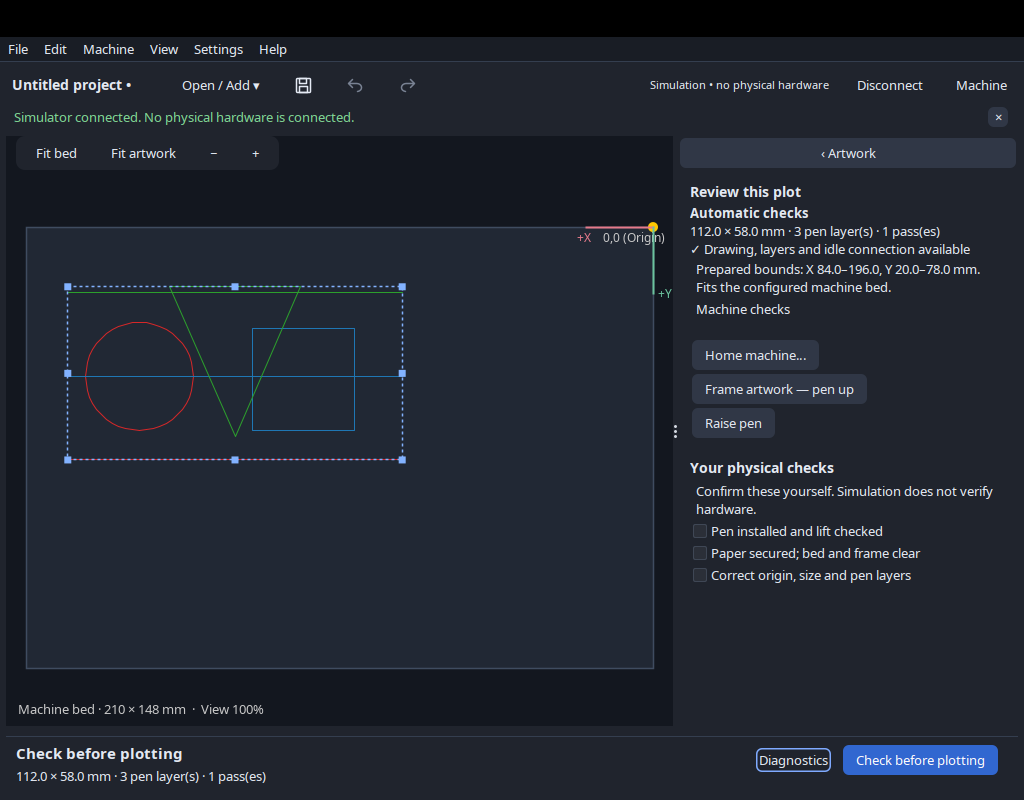
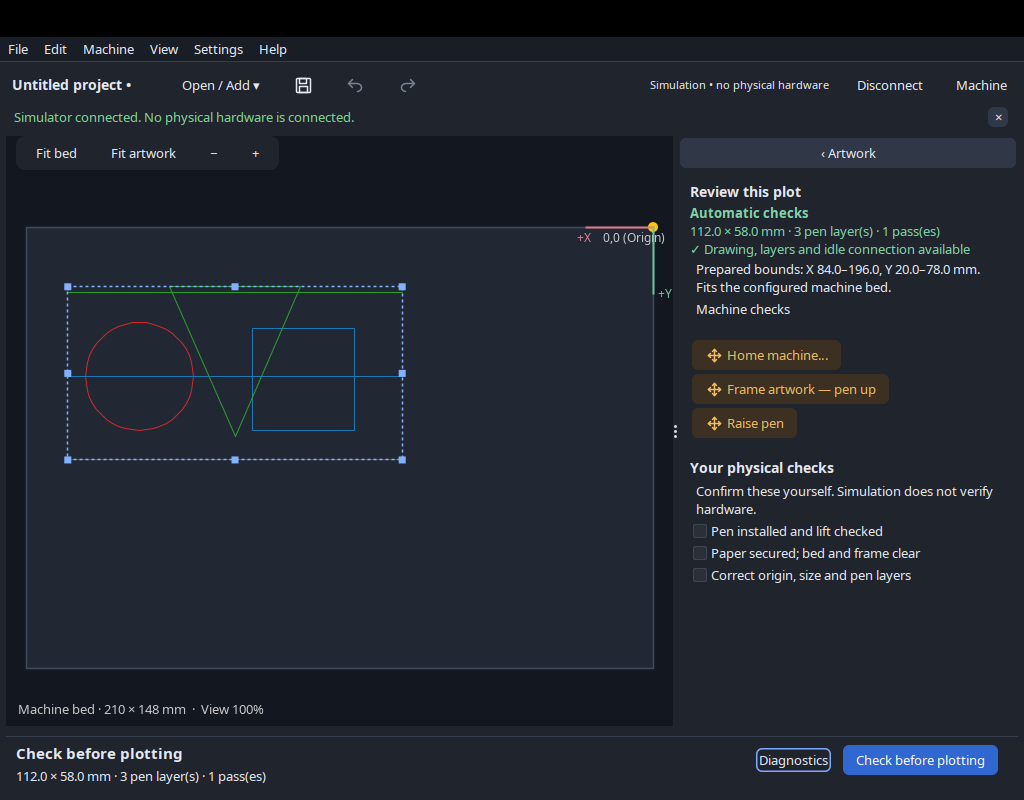
Apply semantic action colours and prepare RC7 installers (#56)

Changed region(s): [[0.6562, 0.4062, 0.875, 0.5625], [0.6562, 0.25, 0.9375, 0.3438]]

diff --git a/app/src/main/java/org/trostheide/gantry/app/gui/PlotterPanel.java b/app/src/main/java/org/trostheide/gantry/app/gui/PlotterPanel.java
@@ -62,7 +62,6 @@ import java.time.format.DateTimeFormatter;
  */
 public class PlotterPanel extends JPanel {
 
-    private static final Color ACTION_GREEN = new Color(46, 125, 50);
     private static final Color ACTION_RED = new Color(198, 40, 40);
     private record OptimizationResult(ProcessorOutput output, OptimizeStage.Stats before,
                                       OptimizeStage.Stats after) { }
@@ -133,6 +132,7 @@ public class PlotterPanel extends JPanel {
     /** Controls that should be disabled while a plot is running (jog, pen, speed, edit actions). */
     private final List<JComponent> plotDisabledControls = new ArrayList<>();
     private final List<JComponent> connectionRequiredControls = new ArrayList<>();
+    private final List<JButton> manualMotionControls = new ArrayList<>();
 
     private JSplitPane controlSplit;
     private WorkspaceShell workspace;
@@ -261,7 +261,9 @@ public class PlotterPanel extends JPanel {
             menu.add(menuItem("Watercolor station checks…",event->onTestStationsWizard(),false));
             menu.show(machineMore,0,machineMore.getHeight());});
         JPanel machineActions=new JPanel(new FlowLayout(FlowLayout.LEFT,6,0));
-        JButton frameButton=WorkspaceStyle.button("Frame…",this::frameJob);frameButton.getAccessibleContext().setAccessibleName("Frame artwork — pen up");frameButton.setToolTipText("Move around the prepared drawing with the pen raised");machineActions.add(frameButton);machineActions.add(jogPanel.homeButton());machineActions.add(machineMore);
+        JButton frameButton=WorkspaceStyle.button("Frame…",this::frameJob);frameButton.getAccessibleContext().setAccessibleName("Frame artwork — pen up");frameButton.setToolTipText("Move around the prepared drawing with the pen raised");WorkspaceStyle.motion(frameButton);machineActions.add(frameButton);machineActions.add(jogPanel.homeButton());machineActions.add(machineMore);
+        manualMotionControls.add(frameButton);manualMotionControls.add(jogPanel.homeButton());
+        manualMotionControls.addAll(workspaceChecks.motionControls());
         JPanel machine = WorkspaceStyle.stack(jogPanel,machineActions);machine.setBorder(BorderFactory.createEmptyBorder(4,10,4,10));
         machine.setToolTipText("Manual controls can move the connected plotter. Arrow keys work only on focused jog buttons.");
         // Only navigation remains available during a job; editing/motion actions retain existing gates.
@@ -390,6 +392,9 @@ public class PlotterPanel extends JPanel {
         if (workspace == null) return;
         boolean connected=plotJobController.isConnected();
         boolean idle=config.mock || controllerState==GcodeBackend.MachineState.IDLE;
+        for(JButton control:manualMotionControls) {
+            control.setEnabled(connected && !plotting && !plotJobController.isMachineBusy() && manualActions==0);
+        }
         updateBoundsReview();
         String summary=workspaceSummary();
         workspaceChecks.update(pendingJob!=null||documentSession.currentOutput()!=null,pendingJob!=null||!selectedLayerIndices().isEmpty(),connected,idle,plotJobController.isMachineBusy()||manualActions>0 || !historicalCompatible(),summary);
@@ -409,6 +414,8 @@ public class PlotterPanel extends JPanel {
         workspace.jobSummary.setToolTipText(summary+(boundsWarning.isBlank()?"":" · "+boundsWarning));
         if(artworkInspector!=null)artworkInspector.updateSummary(summary);
         safetyStatusLabel.setText(config.mock ? "Simulation • no physical hardware" : connected ? "Controller: "+controllerState : "Not connected • physical state unknown");
+        WorkspaceStyle.status(safetyStatusLabel, !config.mock && connected && controllerState==GcodeBackend.MachineState.IDLE
+                ? "Gantry.success" : controllerState==GcodeBackend.MachineState.ALARM ? "Gantry.error" : "Label.foreground");
         for(ActionListener listener:guidanceActionBtn.getActionListeners())guidanceActionBtn.removeActionListener(listener);
         guidanceActionBtn.setText(view.button());guidanceActionBtn.setEnabled(view.enabled()&&historicalCompatible()&&!replaying&&manualActions==0&&(plotting||!plotJobController.isMachineBusy()));
         WorkspacePresentation.Action nextAction=view.action();

diff --git a/app/src/main/java/org/trostheide/gantry/app/gui/WorkspaceStyle.java b/app/src/main/java/org/trostheide/gantry/app/gui/WorkspaceStyle.java
@@ -43,6 +43,13 @@ public final class WorkspaceStyle {
         palette.put("Separator.foreground", dark ? "#343e4f" : "#dce3ee");
         palette.put("ProgressBar.arc", "999");
         palette.put("ProgressBar.foreground", "#5283e8");
+        palette.put("Gantry.motion.background", dark ? "#3b3021" : "#fff0d4");
+        palette.put("Gantry.motion.foreground", dark ? "#f4bd62" : "#784500");
+        palette.put("Gantry.motion.hover", dark ? "#504027" : "#ffe1a5");
+        palette.put("Gantry.motion.pressed", dark ? "#64502f" : "#f4ce87");
+        palette.put("Gantry.success", dark ? "#83d5aa" : "#21683f");
+        palette.put("Gantry.warning", dark ? "#f4bd62" : "#784500");
+        palette.put("Gantry.error", dark ? "#ff9696" : "#a82b35");
         look.setExtraDefaults(palette);
         FlatLaf.setup(look);
         boolean compact="Compact".equals(config.uiDensity);
@@ -94,8 +101,46 @@ public final class WorkspaceStyle {
         button.setCursor(Cursor.getPredefinedCursor(Cursor.HAND_CURSOR));
     }
     static void primary(JButton button) {
+        action(button, ActionRole.PREPARE, true);
+    }
+    enum ActionRole { NEUTRAL, PREPARE, MOTION, PAUSE, STOP }
+    /** Explicit consequences, never inferred from translated labels or wired to machine state. */
+    static void action(AbstractButton button, ActionRole role, boolean prominent) {
+        button.putClientProperty("Gantry.actionRole", role);
         button.putClientProperty("JButton.buttonType", null);
-        button.putClientProperty("FlatLaf.style", "background: #3167d0; foreground: #ffffff; focusedBackground: #2a58b4; hoverBackground: #2856b1; pressedBackground: #204591");
+        String style = switch(role) {
+            case NEUTRAL -> "";
+            case PREPARE -> "background: #3167d0; foreground: #ffffff; focusedBackground: #2a58b4; hoverBackground: #2856b1; pressedBackground: #204591";
+            case MOTION, PAUSE -> prominent
+                    ? "background: #edb459; foreground: #292013; focusedBackground: #f3c477; hoverBackground: #f3c477; pressedBackground: #d99c3c"
+                    : "background: $Gantry.motion.background; foreground: $Gantry.motion.foreground; focusedBackground: $Gantry.motion.hover; hoverBackground: $Gantry.motion.hover; pressedBackground: $Gantry.motion.pressed";
+            case STOP -> "background: #ad2935; foreground: #ffffff; focusedBackground: #c33340; hoverBackground: #c33340; pressedBackground: #90212b";
+        };
+        if (!style.isEmpty()) style += "; disabledBackground: $Button.disabledBackground; disabledText: $Button.disabledText";
+        button.putClientProperty("FlatLaf.style", style);
+        if (role == ActionRole.MOTION && !Boolean.TRUE.equals(button.getClientProperty("jogDirection"))) {
+            button.setIcon(new WorkspaceIcon(WorkspaceIcon.Kind.MOTION));
+            button.getAccessibleContext().setAccessibleDescription("Can send machine movement commands. " + button.getText());
+        } else if (button.getIcon() instanceof WorkspaceIcon icon && icon.isMotion()) {
+            button.setIcon(null);
+            button.getAccessibleContext().setAccessibleDescription(null);
+        }
+    }
+    static JButton motion(JButton button) {
+        action(button, ActionRole.MOTION, false);
+        if(button.getToolTipText()==null)button.setToolTipText("Can move the machine: " + button.getText() + ". Requires a connected, available plotter.");
+        return button;
+    }
+    static ActionRole roleFor(WorkspacePresentation.Action action) {
+        return switch(action) {
+            case START, CONTINUE, RESUME -> ActionRole.MOTION;
+            case PAUSE -> ActionRole.PAUSE;
+            case CHECK -> ActionRole.PREPARE;
+            default -> ActionRole.NEUTRAL;
+        };
+    }
+    static void status(JComponent component, String key) {
+        component.putClientProperty("FlatLaf.style", "foreground: $" + key);
     }
     static JPanel surface(LayoutManager layout) {
         JPanel panel=new JPanel(layout){

diff --git a/app/src/main/java/org/trostheide/gantry/app/gui/WorkspaceShell.java b/app/src/main/java/org/trostheide/gantry/app/gui/WorkspaceShell.java
@@ -15,6 +15,7 @@ final class WorkspaceShell extends JPanel {
     final JLabel jobSummary = new JLabel("No artwork");
     final JTextArea jobDetail = WorkspaceStyle.note("No active job");
     final JButton stop;
+    private final JButton primary;
     final JSplitPane split;
     final JToggleButton machineToggle = new JToggleButton("Machine");
     final JToggleButton pin = new JToggleButton("Pin");
@@ -38,6 +39,7 @@ final class WorkspaceShell extends JPanel {
                    JComponent console,JComponent raw,JButton primary,Runnable stopAction,Runnable copy,
                    Supplier<GantryConfig> config,Runnable save,Runnable stopJog) {
         super(new BorderLayout(6,4));
+        this.primary=primary;
         this.stopJog=stopJog; this.config=config; this.save=save;
         cards.add(prepare,"Prepare"); cards.add(check,"Check"); cards.add(plot,"Plot");
         // CardLayout otherwise uses the tallest hidden card when computing the scroll height.
@@ -73,7 +75,7 @@ final class WorkspaceShell extends JPanel {
         jobTitle.setFont(jobTitle.getFont().deriveFont(Font.BOLD,15f));
         JPanel copyPanel=new JPanel(new BorderLayout(0,3));copyPanel.setMinimumSize(new Dimension(0,0));copyPanel.add(jobTitle,BorderLayout.NORTH);JPanel middle=new JPanel(new BorderLayout(0,3));middle.add(jobSummary,BorderLayout.NORTH);middle.add(progressSlot,BorderLayout.CENTER);copyPanel.add(middle,BorderLayout.CENTER);jobTitle.setToolTipText(jobHint.getText());job.add(copyPanel,BorderLayout.CENTER);
         JPanel controls=new JPanel(new FlowLayout(FlowLayout.RIGHT,8,0));WorkspaceStyle.primary(primary);controls.add(primary);
-        stop=WorkspaceStyle.button("Stop",stopAction);stop.putClientProperty("JButton.buttonType","roundRect");stop.setBackground(new Color(175,35,35));stop.setForeground(Color.WHITE);stop.getAccessibleContext().setAccessibleDescription("Stop the active job and attempt motion halt and pen lift");controls.add(stop);job.add(controls,BorderLayout.EAST);
+        stop=WorkspaceStyle.button("Stop",stopAction);WorkspaceStyle.action(stop,WorkspaceStyle.ActionRole.STOP,true);stop.getAccessibleContext().setAccessibleDescription("Stop the active job and attempt motion halt and pen lift");controls.add(stop);job.add(controls,BorderLayout.EAST);
         JToggleButton diagnostics=new JToggleButton("Diagnostics");WorkspaceStyle.quiet(diagnostics);diagnostics.setSelected(config.get().diagnosticsOpen);
         JPanel drawerTools=new JPanel(new FlowLayout(FlowLayout.LEFT,6,0));controls.add(diagnostics,0);
         JPanel drawer=new JPanel(new BorderLayout());JPanel drawerHeader=new JPanel(new BorderLayout());drawerHeader.add(raw,BorderLayout.CENTER);drawerHeader.add(WorkspaceStyle.button("Copy diagnostics",copy),BorderLayout.EAST);
@@ -102,6 +104,13 @@ final class WorkspaceShell extends JPanel {
         revalidate();repaint();
     }
     void render(WorkspacePresentation.View view,boolean guidance){
+        WorkspaceStyle.action(primary,WorkspaceStyle.roleFor(view.action()),true);
+        WorkspaceStyle.status(jobTitle,switch(view.phase()) {
+            case COMPLETE, READY -> "Gantry.success";
+            case FAILED -> "Gantry.error";
+            case WAITING, PAUSED, STOPPED -> "Gantry.warning";
+            default -> "Label.foreground";
+        });
         jobTitle.setText(view.title());jobTitle.setToolTipText(view.hint());jobHint.setText(view.hint());jobHint.setVisible(guidance);stop.setVisible(view.stop());stop.setEnabled(view.stop());
         if(view.stop()&&view.phase()!=WorkspacePresentation.Phase.MANUAL&&!activeJob&&!config.get().machinePanelPinned)setMachineOpen(false);
         activeJob=view.stop();back.setEnabled(!activeJob);progressSlot.setVisible(activeJob||view.phase()==WorkspacePresentation.Phase.COMPLETE||view.phase()==WorkspacePresentation.Phase.STOPPED||view.phase()==WorkspacePresentation.Phase.FAILED);

diff --git a/app/src/main/java/org/trostheide/gantry/app/gui/JogPanel.java b/app/src/main/java/org/trostheide/gantry/app/gui/JogPanel.java
@@ -40,6 +40,7 @@ final class JogPanel extends JPanel {
         JPanel manual=new JPanel(new BorderLayout(8,0));manual.add(pad,BorderLayout.WEST);
         JButton penUp=control(WorkspaceStyle.button("Pen up",()->backend.accept(PlotterBackend::penup)),true);
         JButton penDown=control(WorkspaceStyle.button("Pen down",()->backend.accept(PlotterBackend::pendown)),true);
+        WorkspaceStyle.motion(penUp);WorkspaceStyle.motion(penDown);
         penUp.setMargin(new Insets(3,8,3,8));penDown.setMargin(new Insets(3,8,3,8));
         step.getAccessibleContext().setAccessibleName("Jog distance in millimetres");step.setPreferredSize(new Dimension(64,step.getPreferredSize().height));plotSafeControls.add(step);
         JComboBox<String> presets=new JComboBox<>(new String[]{"Step preset…","0.1 mm","1 mm","10 mm"});
@@ -50,6 +51,7 @@ final class JogPanel extends JPanel {
         home=control(WorkspaceStyle.button("Home machine…",this::home),true);
         for(JButton button:List.of(minus,plus,reset))button.setMargin(new Insets(3,6,3,6));
         reset.setText("↺");reset.getAccessibleContext().setAccessibleName("Reset feed override");reset.setToolTipText("Reset feed override to 100%");
+        WorkspaceStyle.motion(home);
         home.setText("Home…");home.setToolTipText("Home moves toward the configured limit switches");
         JPanel footer=row(new JLabel("Feed override"),minus,speed,plus,reset,home);add(footer,BorderLayout.SOUTH);
     }
@@ -65,7 +67,7 @@ final class JogPanel extends JPanel {
         if(JOptionPane.showConfirmDialog(parent,"Home moves the plotter toward its configured limit switches. Clear the bed before continuing.","Home machine",JOptionPane.OK_CANCEL_OPTION,JOptionPane.WARNING_MESSAGE)!=JOptionPane.OK_OPTION)return;
         backend.accept(b->{b.home();reportPosition(0,0);});}
     private void adjustSpeed(String value){new Thread(()->{try{jobs.withBackend(b->b.adjustSpeed(value));}catch(RuntimeException e){log.accept("Feed override failed: "+e.getMessage());}},"feed-override").start();}
-    private JButton jogButton(String label,int dx,int dy){JButton b=control(new JButton(label),true);b.putClientProperty("jogDirection",true);b.getAccessibleContext().setAccessibleName("Jog "+(dx<0?"left":dx>0?"right":dy>0?"up":"down"));b.setMargin(new Insets(0,0,0,0));b.setPreferredSize(new Dimension(34,30));
+    private JButton jogButton(String label,int dx,int dy){JButton b=control(new JButton(label),true);b.putClientProperty("jogDirection",true);WorkspaceStyle.motion(b);b.getAccessibleContext().setAccessibleName("Jog "+(dx<0?"left":dx>0?"right":dy>0?"up":"down"));b.setMargin(new Insets(0,0,0,0));b.setPreferredSize(new Dimension(34,30));
         boolean[] continuous={false};Timer timer=new Timer(300,e->{continuous[0]=true;startContinuous(dx,dy);});timer.setRepeats(false);holdTimers.add(timer);
         b.addActionListener(e->{timer.stop();if(!continuous[0])jog(dx,dy);continuous[0]=false;});
         b.addMouseListener(new MouseAdapter(){public void mousePressed(MouseEvent e){if(b.isEnabled()&&SwingUtilities.isLeftMouseButton(e)){continuous[0]=false;timer.restart();}}public void mouseReleased(MouseEvent e){timer.stop();stopContinuous();}public void mouseExited(MouseEvent e){timer.stop();stopContinuous();}});

diff --git a/app/src/test/java/org/trostheide/gantry/app/gui/WorkspaceActionStyleTest.java b/app/src/test/java/org/trostheide/gantry/app/gui/WorkspaceActionStyleTest.java
@@ -1,0 +1,37 @@
+package org.trostheide.gantry.app.gui;
+
+import org.junit.jupiter.api.Test;
+import org.trostheide.gantry.app.plot.GantryConfig;
+import javax.swing.*;
+import static org.junit.jupiter.api.Assertions.*;
+
+class WorkspaceActionStyleTest {
+    @Test void jobActionTracksConsequencesAcrossThemesAndDoesNotEnableControls() throws Exception {
+        SwingUtilities.invokeAndWait(() -> {
+            for (String theme : new String[]{"Dark", "Light"}) {
+                GantryConfig config = new GantryConfig(); config.uiTheme = theme;
+                WorkspaceStyle.install(config);
+                JButton primary = new JButton("Start plotting"); primary.setEnabled(false);
+                WorkspaceShell shell = new WorkspaceShell(new JPanel(), new JPanel(), new JPanel(),
+                        new JPanel(), new JPanel(), new JPanel(), new JPanel(), primary,
+                        () -> {}, () -> {}, () -> config, () -> {}, () -> {});
+                for (WorkspacePresentation.Action action : new WorkspacePresentation.Action[]{
+                        WorkspacePresentation.Action.START, WorkspacePresentation.Action.CONTINUE,
+                        WorkspacePresentation.Action.PAUSE, WorkspacePresentation.Action.RESUME,
+                        WorkspacePresentation.Action.CHECK, WorkspacePresentation.Action.ADD}) {
+                    shell.render(new WorkspacePresentation.View(WorkspacePresentation.Phase.READY,
+                            "Ready", "", "Action", action, true, false), true);
+                    boolean movement = action == WorkspacePresentation.Action.START
+                            || action == WorkspacePresentation.Action.CONTINUE || action == WorkspacePresentation.Action.RESUME;
+                    assertEquals(movement, primary.getIcon() instanceof WorkspaceIcon icon && icon.isMotion());
+                    assertFalse(primary.isEnabled(), "Styling must not override safety gates");
+                    SwingUtilities.updateComponentTreeUI(shell);
+                    assertFalse(primary.isEnabled());
+                    assertEquals(WorkspaceStyle.roleFor(action), primary.getClientProperty("Gantry.actionRole"));
+                }
+                assertEquals(WorkspaceStyle.ActionRole.STOP, shell.stop.getClientProperty("Gantry.actionRole"));
+                assertNull(primary.getAccessibleContext().getAccessibleDescription(), "No stale movement warning on Add");
+            }
+        });
+    }
+}

diff --git a/app/src/main/java/org/trostheide/gantry/app/gui/WorkspaceChecks.java b/app/src/main/java/org/trostheide/gantry/app/gui/WorkspaceChecks.java
@@ -12,13 +12,16 @@ final class WorkspaceChecks extends JPanel {
             new JCheckBox("Paper secured; bed and frame clear"), new JCheckBox("Correct origin, size and pen layers"));
     private final Runnable changed;
     private boolean automaticPass;
+    private final List<JButton> motionControls = new java.util.ArrayList<>();
+    List<JButton> motionControls(){return List.copyOf(motionControls);}
+    private void addMotion(JButton button){motionControls.add(button);add(WorkspaceStyle.motion(button));}
     WorkspaceChecks(Runnable home,Runnable frame,Runnable penUp,Runnable changed) {
         super();setBorder(BorderFactory.createEmptyBorder(10,12,10,12));this.changed=changed;setLayout(new BoxLayout(this,BoxLayout.Y_AXIS));
         add(WorkspaceStyle.heading("Review this plot"));add(automatic);add(bounds);
         add(WorkspaceStyle.note("Machine checks"));
-        add(WorkspaceStyle.button("Home machine…",home));
-        add(WorkspaceStyle.button("Frame artwork — pen up",frame));
-        add(WorkspaceStyle.button("Raise pen",penUp));
+        addMotion(WorkspaceStyle.button("Home machine…",home));
+        addMotion(WorkspaceStyle.button("Frame artwork — pen up",frame));
+        addMotion(WorkspaceStyle.button("Raise pen",penUp));
         add(Box.createVerticalStrut(16));add(WorkspaceStyle.heading("Your physical checks"));
         add(WorkspaceStyle.note("Confirm these yourself. Simulation does not verify hardware."));
         for(JCheckBox c:checks){c.setAlignmentX(LEFT_ALIGNMENT);c.addActionListener(e->changed.run());add(c);}
@@ -27,6 +30,7 @@ final class WorkspaceChecks extends JPanel {
         automaticPass=hasArtwork&&selection&&connected&&idle&&!busy;
         automatic.setText("<html><b>Automatic checks</b><br>"+WorkspaceStyle.escape(summary)+"<br>"+
                 (automaticPass?"✓ Drawing, layers and idle connection available":"Review drawing, selected layers and idle connection")+"</html>");
+        WorkspaceStyle.status(automatic,automaticPass?"Gantry.success":"Label.foreground");
         for(JCheckBox c:checks)c.setEnabled(automaticPass);
     }
     void setBoundsMessage(String text){bounds.setText(text);bounds.setVisible(!text.isBlank());}

diff --git a/app/src/main/java/org/trostheide/gantry/app/gui/CalibrationWorkflow.java b/app/src/main/java/org/trostheide/gantry/app/gui/CalibrationWorkflow.java
@@ -98,6 +98,7 @@ final class CalibrationWorkflow {
             for (int[] direction : new int[][]{{-1,0},{1,0},{0,-1},{0,1}}) {
                 double dx=direction[0],dy=direction[1];
                 JButton move=new JButton((dx==0?"Y ":"X ")+(dx+dy>0?"+":"−")+"1 mm");
+            WorkspaceStyle.motion(move);
                 move.addActionListener(e->runOnBackend(b->{b.penup();b.move(dx,dy);})); positioning.add(move);
             }
             panel.add(positioning);
@@ -117,6 +118,7 @@ final class CalibrationWorkflow {
                 java.util.function.Consumer<AxisDirectionSolver.Dir> onObserved) {
             JPanel row = new JPanel(new FlowLayout(FlowLayout.LEFT));
             JButton jogBtn = new JButton(jogLabel);
+            WorkspaceStyle.motion(jogBtn);
             jogBtn.addActionListener(e -> runOnBackend(b -> b.move(dxMm, dyMm)));
             row.add(jogBtn);
             row.add(new JLabel("moved:"));
@@ -195,6 +197,7 @@ final class CalibrationWorkflow {
             panel.add(left(currentLabel));
 
             JButton moveBtn = new JButton("Move " + axis + " by commanded distance");
+            WorkspaceStyle.motion(moveBtn);
             moveBtn.addActionListener(e -> {
                 double d = ((Number) commandedSpinner.getValue()).doubleValue();
                 runOnBackend(b -> {
@@ -395,6 +398,7 @@ final class CalibrationWorkflow {
             panel.add(left(cards));
 
             JButton testBtn = new JButton("Test pen (up → down → up)");
+            WorkspaceStyle.motion(testBtn);
             testBtn.addActionListener(e -> runOnBackend(b -> {
                 log("Pen test: lifting, lowering, lifting…");
                 b.penup();

diff --git a/scripts/gui/WorkspaceLayouts.java b/scripts/gui/WorkspaceLayouts.java
@@ -24,6 +24,7 @@ public class WorkspaceLayouts extends GuiAcceptance {
    var beforeNavigation=edt(()->project().output());
    edt(()->{Object vis=field(panel,"visPanel");Object session=field(panel,"documentSession");java.util.List<?> artworks=(java.util.List<?>)session.getClass().getMethod("artworks").invoke(session);if(!artworks.isEmpty()){Object artwork=artworks.get(0);String id=(String)artwork.getClass().getMethod("id").invoke(artwork);Method select=vis.getClass().getDeclaredMethod("selectArtwork",String.class);select.setAccessible(true);select.invoke(vis,id);}return null;});capture(out,"selected-artwork");
    edt(()->{Object shell=field(panel,"workspace");((JToggleButton)field(shell,"machineToggle")).doClick();return null;});capture(out,"machine");assertLayerRows();
+   edt(()->{check(!findButton(panel,"Home…").isEnabled(),"Home disabled when disconnected");check(!findButton(panel,"Frame…").isEnabled(),"Frame disabled when disconnected");return null;});
    edt(()->{Object vis=field(panel,"visPanel");Method select=vis.getClass().getDeclaredMethod("selectArtwork",String.class);select.setAccessible(true);select.invoke(vis,new Object[]{null});return null;});capture(out,"machine-whole-drawing");assertLayerRows();
    check(edt(()->project().output().equals(beforeNavigation)),"selection and machine navigation preserve prepared output");
    edt(()->{Object shell=field(panel,"workspace");((JToggleButton)field(shell,"machineToggle")).doClick();frame.setSize(1440,1000);return null;});capture(out,"large-workspace");edt(()->{frame.setSize(1024,800);return null;});

diff --git a/app/src/main/java/org/trostheide/gantry/app/gui/WorkspaceIcon.java b/app/src/main/java/org/trostheide/gantry/app/gui/WorkspaceIcon.java
@@ -7,7 +7,8 @@ import java.awt.geom.Path2D;
 
 /** Small vector toolbar icons, painted at the active desktop scale. */
 final class WorkspaceIcon implements Icon {
-    enum Kind { SAVE, UNDO, REDO }
+    enum Kind { SAVE, UNDO, REDO, MOTION }
+    boolean isMotion(){return kind==Kind.MOTION;}
     private final Kind kind;
     WorkspaceIcon(Kind kind){this.kind=kind;}
     public int getIconWidth(){return UIScale.scale(18);}
@@ -17,6 +18,7 @@ final class WorkspaceIcon implements Icon {
         try{g.translate(x,y);g.scale(getIconWidth()/18.0,getIconHeight()/18.0);g.setRenderingHint(RenderingHints.KEY_ANTIALIASING,RenderingHints.VALUE_ANTIALIAS_ON);
             g.setColor(component.isEnabled()?component.getForeground():UIManager.getColor("Label.disabledForeground"));g.setStroke(new BasicStroke(1.5f,BasicStroke.CAP_ROUND,BasicStroke.JOIN_ROUND));
             if(kind==Kind.SAVE){g.drawRoundRect(2,2,14,14,2,2);g.drawRect(5,2,7,5);g.drawRect(5,10,8,6);}
+            else if(kind==Kind.MOTION){g.drawLine(3,9,15,9);g.drawLine(9,3,9,15);g.drawLine(3,9,5,7);g.drawLine(3,9,5,11);g.drawLine(15,9,13,7);g.drawLine(15,9,13,11);g.drawLine(9,3,7,5);g.drawLine(9,3,11,5);g.drawLine(9,15,7,13);g.drawLine(9,15,11,13);}
             else{if(kind==Kind.REDO){g.translate(18,0);g.scale(-1,1);}Path2D path=new Path2D.Double();path.moveTo(6,3);path.lineTo(2,7);path.lineTo(6,11);path.moveTo(2,7);path.lineTo(10,7);path.curveTo(16,7,17,14,11,15);g.draw(path);}
         }finally{g.dispose();}
     }

diff --git a/app/src/main/java/org/trostheide/gantry/app/gui/RawCommandPanel.java b/app/src/main/java/org/trostheide/gantry/app/gui/RawCommandPanel.java
@@ -14,7 +14,7 @@ final class RawCommandPanel extends JPanel {
     RawCommandPanel(Consumer<Consumer<PlotterBackend>> backend,Consumer<String> log){this.backend=backend;this.log=log;
         setLayout(new FlowLayout(FlowLayout.LEFT,6,4));setBorder(new TitledBorder("Raw G-code"));
         Action action=new AbstractAction(){public void actionPerformed(java.awt.event.ActionEvent e){submit();}};
-        send.setAction(action);send.setText("Send");input.addActionListener(action);add(input);add(send);refresh();}
+        send.setAction(action);send.setText("Send");WorkspaceStyle.motion(send);send.setToolTipText("Send raw commands — may move the machine immediately");input.addActionListener(action);add(input);add(send);refresh();}
     void setConnected(boolean value){connected=value;refresh();}void setPlotting(boolean value){plotting=value;refresh();}
     private void refresh(){boolean enabled=connected&&!plotting;input.setEnabled(enabled);send.setEnabled(enabled);}
     private void submit(){String command=input.getText().trim();if(command.isEmpty())return;input.setText("");backend.accept(b->{for(String line:b.sendRaw(command))log.accept(line);});}

diff --git a/app/src/main/java/org/trostheide/gantry/app/gui/PreflightWorkflow.java b/app/src/main/java/org/trostheide/gantry/app/gui/PreflightWorkflow.java
@@ -67,7 +67,7 @@ final class PreflightWorkflow {
         HomeStep() {
             super("Run the homing cycle so the machine knows where it is.");
             JLabel status = new JLabel("Not homed yet.");
-            JButton button = new JButton("Home");
+            JButton button = WorkspaceStyle.motion(new JButton("Home"));
             button.addActionListener(e -> {
                 actions.home().run();
                 status.setText("Homing requested. Wait for the machine to stop before continuing.");
@@ -83,7 +83,7 @@ final class PreflightWorkflow {
             super("Trace the job's outline with the pen up, to check it lines up with the taped-down paper. "
                     + "Repeat as many times as you like.");
             JLabel status = new JLabel(" ");
-            JButton button = new JButton("Frame the job");
+            JButton button = WorkspaceStyle.motion(new JButton("Frame the job"));
             button.addActionListener(e -> { actions.frame().run(); status.setText("Tracing outline..."); });
             panel.add(row(button, status), BorderLayout.CENTER);
         }

diff --git a/app/src/main/java/org/trostheide/gantry/app/gui/StationTestWorkflow.java b/app/src/main/java/org/trostheide/gantry/app/gui/StationTestWorkflow.java
@@ -59,10 +59,12 @@ final class StationTestWorkflow {
             panel.setBorder(BorderFactory.createEmptyBorder(12,12,12,12));
             panel.add(new JLabel("Station '"+name+"' — "+base.behavior())); updateLabel(); panel.add(coordinates);
             JButton move=new JButton("Move here (pen up)"), wet=new JButton("Wet test (dip)");
+            WorkspaceStyle.motion(move);WorkspaceStyle.motion(wet);
             move.addActionListener(e -> service(s -> s.dryVisitStation(current())));
             wet.addActionListener(e -> service(s -> s.wetTestStation(current())));
             panel.add(row(move,wet));
             JButton xm=new JButton("−X"), xp=new JButton("+X"), ym=new JButton("−Y"), yp=new JButton("+Y");
+            for(JButton button:List.of(xm,xp,ym,yp))WorkspaceStyle.motion(button);
             xm.addActionListener(e->nudge(-step(),0)); xp.addActionListener(e->nudge(step(),0));
             ym.addActionListener(e->nudge(0,-step())); yp.addActionListener(e->nudge(0,step()));
             panel.add(row(new JLabel("Step:"),amount,xm,xp,ym,yp));
